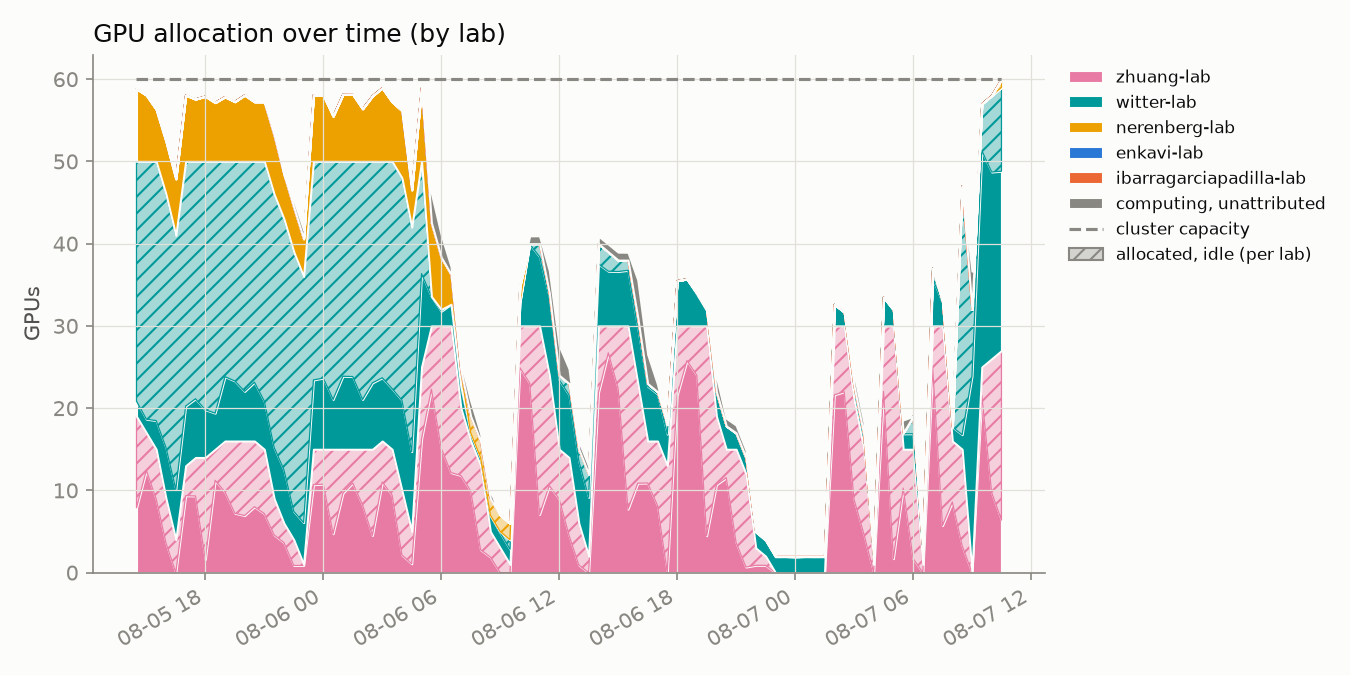
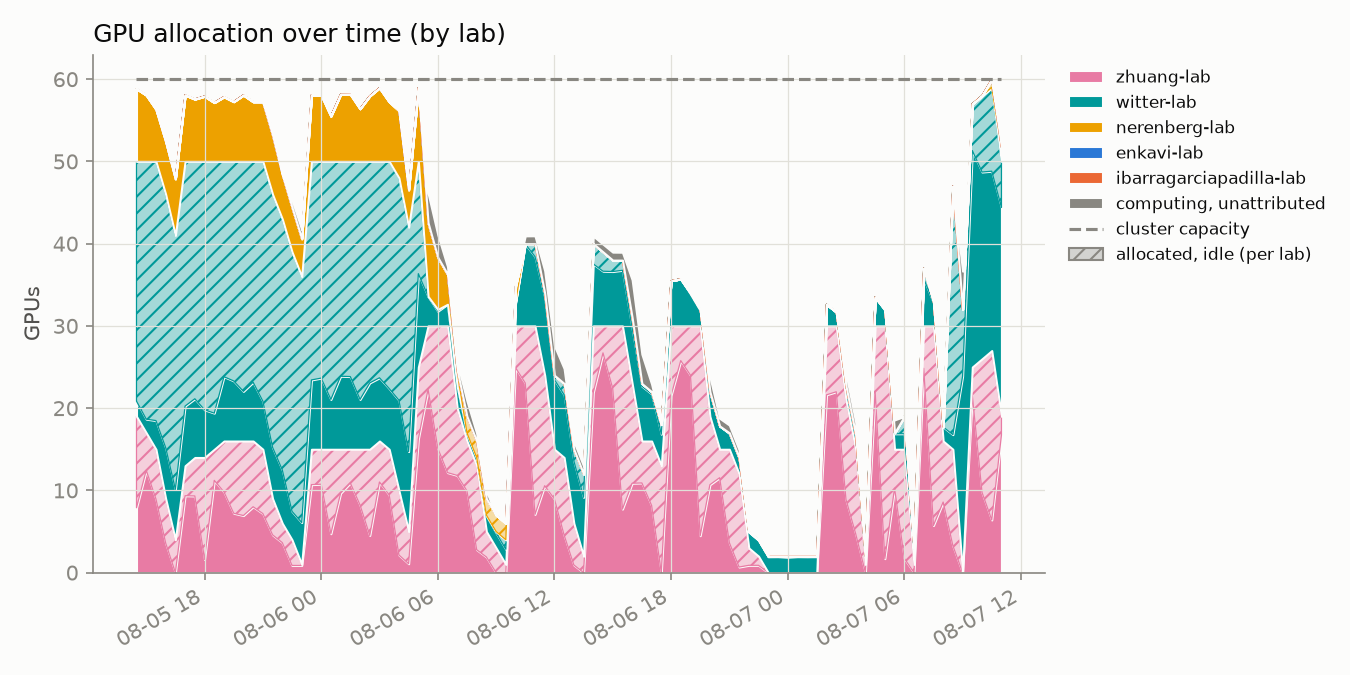
update 2026-08-07T11:00:01-07:00

diff --git a/README.md b/README.md
@@ -2,8 +2,8 @@
 
 Automated GPU/CPU/queue utilization tracker for `hopper.cluster`, updated every 30 minutes by cron. Usernames are anonymized to a stable per-account pseudonym; lab names are real.
 
-Last updated: 2026-08-07T10:30:27-07:00
-Samples: 89 queue snapshots, 89 GPU snapshots
+Last updated: 2026-08-07T11:00:27-07:00
+Samples: 90 queue snapshots, 90 GPU snapshots
 
 ## Resources
 
@@ -16,24 +16,24 @@ Samples: 89 queue snapshots, 89 GPU snapshots
 
 ## Headline
 
-- **54.9%** of the cluster's 60 GPUs allocated, averaged across all samples
-- **44.4%** average `nvidia-smi` utilization *when* a GPU is allocated to a job
-- **86.3%** average cgroup CPU utilization *when* a CPU is allocated to a job
+- **55.2%** of the cluster's 60 GPUs allocated, averaged across all samples
+- **45.0%** average `nvidia-smi` utilization *when* a GPU is allocated to a job
+- **86.4%** average cgroup CPU utilization *when* a CPU is allocated to a job
 
 ## Per lab / per user
 
 <table>
 <tr><th>Lab</th><th>User</th><th align='right'>GPU-hours allocated</th><th align='right'>CPU-hours allocated</th><th align='right'>GPU utilization</th></tr>
-<tr style='background-color:#fbebf1'><td>zhuang-lab</td><td>user-0db9ced0</td><td align='right'>712.5</td><td align='right'>712.5</td><td align='right'>48%</td></tr>
+<tr style='background-color:#fbebf1'><td>zhuang-lab</td><td>user-0db9ced0</td><td align='right'>722.0</td><td align='right'>722.0</td><td align='right'>48%</td></tr>
 <tr style='background-color:#d8efef'><td>witter-lab</td><td>user-d58f5a15</td><td align='right'>467.5</td><td align='right'>3740.0</td><td align='right'>9%</td></tr>
-<tr style='background-color:#d8efef'><td>witter-lab</td><td>user-554c620c</td><td align='right'>244.5</td><td align='right'>583.0</td><td align='right'>67%</td></tr>
+<tr style='background-color:#d8efef'><td>witter-lab</td><td>user-554c620c</td><td align='right'>260.0</td><td align='right'>614.5</td><td align='right'>68%</td></tr>
 <tr style='background-color:#fcf0d8'><td>nerenberg-lab</td><td>user-6bb5f332</td><td align='right'>40.0</td><td align='right'>200.0</td><td align='right'>71%</td></tr>
-<tr style='background-color:#fcf0d8'><td>nerenberg-lab</td><td>user-fedb5feb</td><td align='right'>0.5</td><td align='right'>32.0</td><td align='right'>0%</td></tr>
+<tr style='background-color:#fcf0d8'><td>nerenberg-lab</td><td>user-fedb5feb</td><td align='right'>1.0</td><td align='right'>32.5</td><td align='right'>57%</td></tr>
+<tr style='background-color:#fce8e0'><td>ibarragarciapadilla-lab</td><td>user-3cfc41a3</td><td align='right'>0.0</td><td align='right'>3517.5</td><td align='right'>—</td></tr>
 <tr style='background-color:#fcf0d8'><td>nerenberg-lab</td><td>user-b12dc074</td><td align='right'>0.0</td><td align='right'>16.0</td><td align='right'>—</td></tr>
-<tr style='background-color:#fce8e0'><td>ibarragarciapadilla-lab</td><td>user-dad71a72</td><td align='right'>0.0</td><td align='right'>6.0</td><td align='right'>—</td></tr>
 <tr style='background-color:#fce8e0'><td>ibarragarciapadilla-lab</td><td>user-eec7ffae</td><td align='right'>0.0</td><td align='right'>426.5</td><td align='right'>—</td></tr>
-<tr style='background-color:#dfeaf8'><td>enkavi-lab</td><td>user-c21bdaa4</td><td align='right'>0.0</td><td align='right'>48.0</td><td align='right'>—</td></tr>
-<tr style='background-color:#fce8e0'><td>ibarragarciapadilla-lab</td><td>user-3cfc41a3</td><td align='right'>0.0</td><td align='right'>3502.5</td><td align='right'>—</td></tr>
+<tr style='background-color:#fce8e0'><td>ibarragarciapadilla-lab</td><td>user-dad71a72</td><td align='right'>0.0</td><td align='right'>6.0</td><td align='right'>—</td></tr>
+<tr style='background-color:#dfeaf8'><td>enkavi-lab</td><td>user-c21bdaa4</td><td align='right'>0.0</td><td align='right'>50.0</td><td align='right'>—</td></tr>
 </table>
 
 ## Usage over time
@@ -44,7 +44,7 @@ Samples: 89 queue snapshots, 89 GPU snapshots
 
 Solid = utilized by lab, hatched = allocated but idle, gray = usage not traceable to a lab, dashed line = cluster capacity.
 
-Attribution combines `nvidia-smi`'s process listing with Slurm's GPU-to-job binding record; the latter caught **2190** readings the former missed.
+Attribution combines `nvidia-smi`'s process listing with Slurm's GPU-to-job binding record; the latter caught **2222** readings the former missed.
 
 ## Queue
 
@@ -56,13 +56,13 @@ Attribution combines `nvidia-smi`'s process listing with Slurm's GPU-to-job bind
 
 ![CPU usage vs GPU usage, decayed](assets/cpu_gpu_usage.png)
 
-One point per user per snapshot (n=436), usage decayed on Slurm's ~7-day fairshare half-life.
+One point per user per snapshot (n=441), usage decayed on Slurm's ~7-day fairshare half-life.
 
 **GPU usage doesn't count toward priority on this cluster** (`TRESBillingWeights`/`PriorityWeightTRES` unset) - watch the **upper-left**: low CPU usage (high priority) with high GPU usage.
 
 ## Recommendations
 
-1. **Weight GPU usage in fairshare.** `TRESBillingWeights` and `PriorityWeightTRES` are both unset right now, so Slurm's fairshare score only sees CPU-seconds - a job holding 4 idle L40S GPUs costs nothing in priority as long as it isn't also holding CPUs. That's the exact failure mode the scatter above is built to catch (upper-left: low CPU usage, high GPU usage). Fix: `scontrol update partition=main TRESBillingWeights=CPU=1.0,GRES/gpu=<weight>` (or set `PriorityWeightTRES` cluster-wide), then `scontrol reconfigure` - a full `slurmctld` restart also works but drops in-flight priority state. A reasonable starting point for `<weight>` is the CPUs-per-GPU ratio on a GPU node (128 CPUs / 4 GPUs = 32), so one GPU costs as much fairshare as the CPU share it displaces; tune from there against next week's headline numbers (54.9% allocated, 44.4% utilized when allocated, as of this snapshot). The weight value itself is a policy call - loop in whoever owns cluster allocation policy before changing it.
+1. **Weight GPU usage in fairshare.** `TRESBillingWeights` and `PriorityWeightTRES` are both unset right now, so Slurm's fairshare score only sees CPU-seconds - a job holding 4 idle L40S GPUs costs nothing in priority as long as it isn't also holding CPUs. That's the exact failure mode the scatter above is built to catch (upper-left: low CPU usage, high GPU usage). Fix: `scontrol update partition=main TRESBillingWeights=CPU=1.0,GRES/gpu=<weight>` (or set `PriorityWeightTRES` cluster-wide), then `scontrol reconfigure` - a full `slurmctld` restart also works but drops in-flight priority state. A reasonable starting point for `<weight>` is the CPUs-per-GPU ratio on a GPU node (128 CPUs / 4 GPUs = 32), so one GPU costs as much fairshare as the CPU share it displaces; tune from there against next week's headline numbers (55.2% allocated, 45.0% utilized when allocated, as of this snapshot). The weight value itself is a policy call - loop in whoever owns cluster allocation policy before changing it.
 
 2. **Escalate on sustained low utilization** (see table and scatter above). Right now the clearest candidate is `user-d58f5a15` in `witter-lab`: 467.5 GPU-hours allocated at 9% average utilization, i.e. roughly 424 GPU-hours that sat idle instead of going to someone in the queue. Turning that into an automated escalation needs two decisions made up front: a utilization threshold (something like under 20% mean utilization over at least 50 allocated GPU-hours is a defensible starting bar - loose enough to skip short debugging runs, tight enough to catch parked allocations) and a grace period (how many consecutive low-utilization snapshots before it counts as "sustained" rather than a momentary lull between batches). Once those are set, the mechanism can be either soft (a bot that reads `data/gpu_samples.jsonl` and reminds the user/lab by email or Slack) or hard (a Slurm-side QOS penalty, e.g. `sacctmgr modify qos <qos> set Priority-=<n>`, applied after N consecutive offending snapshots). Neither exists yet - today the table and scatter above are a read-only signal, not an enforced policy.
 
